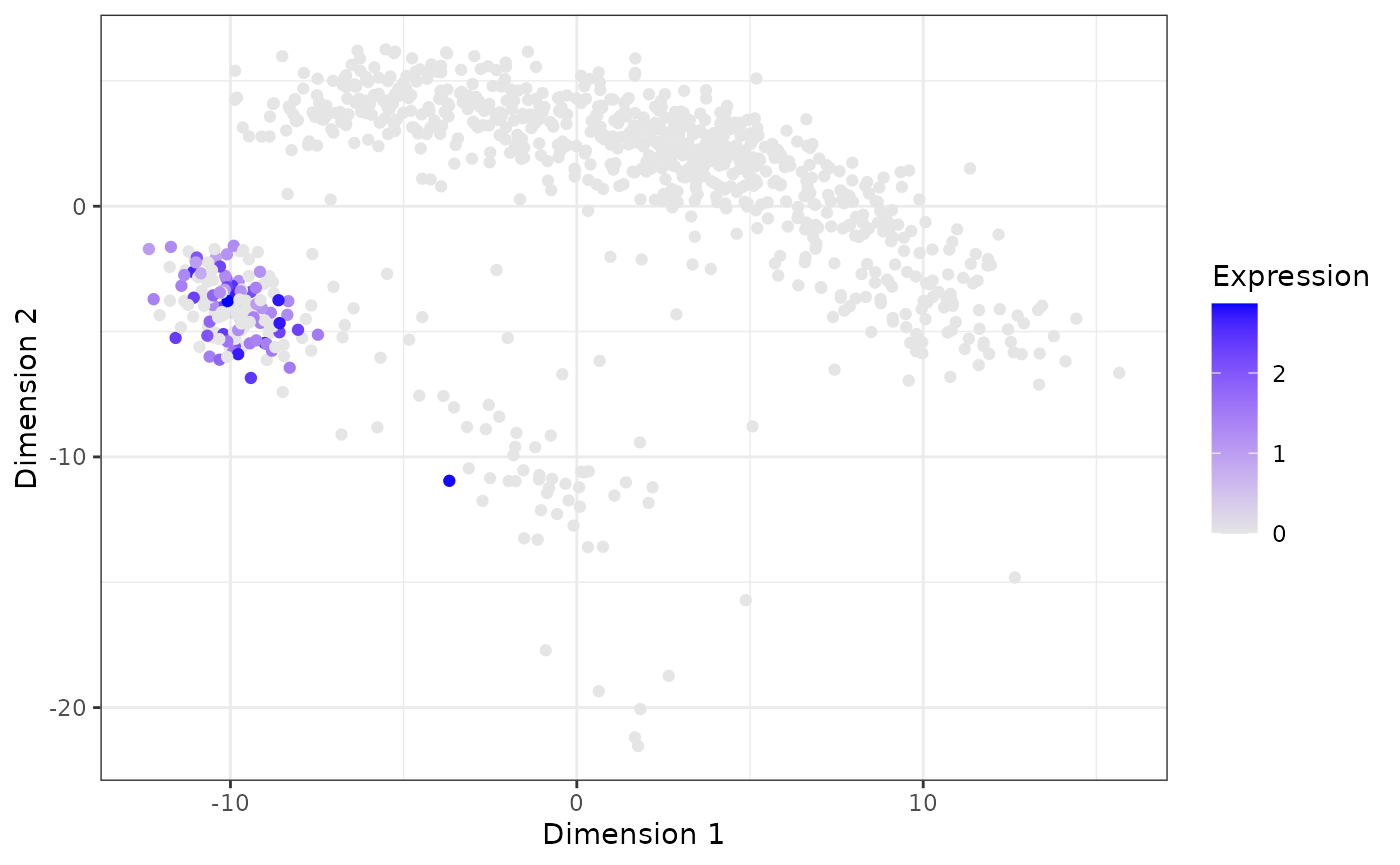
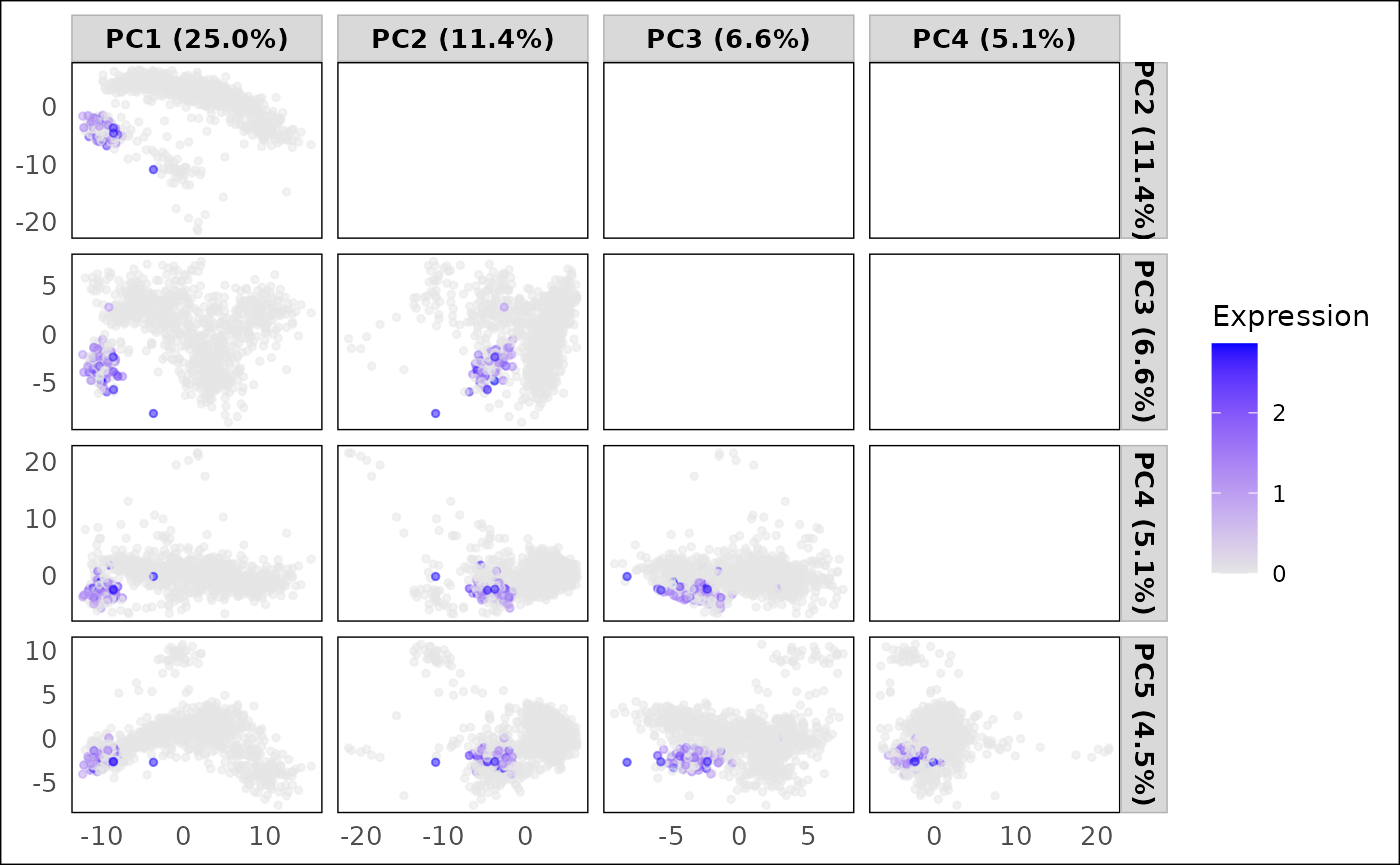
Deploying to gh-pages from @ AnthonyChristidis/scDiagnostics@14ea044367914f78cccae704bd25e8a9b420c00c 🚀

diff --git a/reference/plotGeneExpressionDimred.html b/reference/plotGeneExpressionDimred.html
@@ -56,7 +56,7 @@
     </div>
 
     <div id="ref-usage">
-    <div class="sourceCode"><pre class="sourceCode r"><code><span><span class="fu">plotGeneExpressionDimred</span><span class="op">(</span><span class="va">se_object</span>, <span class="va">method</span>, n_components <span class="op">=</span> <span class="fu"><a href="https://rdrr.io/r/base/c.html" class="external-link">c</a></span><span class="op">(</span><span class="fl">1</span>, <span class="fl">2</span><span class="op">)</span>, <span class="va">feature</span><span class="op">)</span></span></code></pre></div>
+    <div class="sourceCode"><pre class="sourceCode r"><code><span><span class="fu">plotGeneExpressionDimred</span><span class="op">(</span><span class="va">se_object</span>, <span class="va">method</span>, pc_subset <span class="op">=</span> <span class="fu"><a href="https://rdrr.io/r/base/c.html" class="external-link">c</a></span><span class="op">(</span><span class="fl">1</span><span class="op">:</span><span class="fl">5</span><span class="op">)</span>, <span class="va">feature</span><span class="op">)</span></span></code></pre></div>
     </div>
 
     <div id="arguments">
@@ -67,11 +67,12 @@ It can be either a reference or query dataset.</p></dd>
 
 
 <dt>method</dt>
-<dd><p>The reduction method to use for visualization. It should be one of the supported methods: "tSNE", "UMAP", or "PCA".</p></dd>
+<dd><p>The reduction method to use for visualization. It should be one of the supported methods: "TSNE", "UMAP", or "PCA".</p></dd>
 
 
-<dt>n_components</dt>
-<dd><p>A numeric vector of length 2 indicating the first two dimensions to be used for plotting.</p></dd>
+<dt>pc_subset</dt>
+<dd><p>An optional vector specifying the principal components (PCs) to include in the plot if method = "PCA". 
+Default is c(1:5).</p></dd>
 
 
 <dt>feature</dt>
@@ -109,10 +110,9 @@ It can be either a reference or query dataset.</p></dd>
 <span class="r-in"><span><span class="co"># Plot gene expression on PCA plot</span></span></span>
 <span class="r-in"><span><span class="fu">plotGeneExpressionDimred</span><span class="op">(</span>se_object <span class="op">=</span> <span class="va">query_data</span>, </span></span>
 <span class="r-in"><span>                         method <span class="op">=</span> <span class="st">"PCA"</span>, </span></span>
-<span class="r-in"><span>                         n_components <span class="op">=</span> <span class="fu"><a href="https://rdrr.io/r/base/c.html" class="external-link">c</a></span><span class="op">(</span><span class="fl">1</span>, <span class="fl">2</span><span class="op">)</span>, </span></span>
+<span class="r-in"><span>                         pc_subset <span class="op">=</span> <span class="fu"><a href="https://rdrr.io/r/base/c.html" class="external-link">c</a></span><span class="op">(</span><span class="fl">1</span><span class="op">:</span><span class="fl">5</span><span class="op">)</span>, </span></span>
 <span class="r-in"><span>                         feature <span class="op">=</span> <span class="st">"VPREB3"</span><span class="op">)</span></span></span>
 <span class="r-plt img"><img src="plotGeneExpressionDimred-1.png" alt="" width="700" height="433"></span>
-<span class="r-in"><span></span></span>
 <span class="r-in"><span></span></span>
 </code></pre></div>
     </div>

diff --git a/articles/scDiagnostics.html b/articles/scDiagnostics.html
@@ -428,7 +428,7 @@ color).</p>
 <code class="sourceCode R"><span><span class="co"># Generate dimension reduction plot color code by gene expression</span></span>
 <span><span class="fu"><a href="../reference/plotGeneExpressionDimred.html">plotGeneExpressionDimred</a></span><span class="op">(</span>se_object <span class="op">=</span> <span class="va">query_data</span>, </span>
 <span>                         method <span class="op">=</span> <span class="st">"PCA"</span>, </span>
-<span>                         n_components <span class="op">=</span> <span class="fu"><a href="https://rdrr.io/r/base/c.html" class="external-link">c</a></span><span class="op">(</span><span class="fl">1</span>, <span class="fl">2</span><span class="op">)</span>, </span>
+<span>                         pc_subset <span class="op">=</span> <span class="fu"><a href="https://rdrr.io/r/base/c.html" class="external-link">c</a></span><span class="op">(</span><span class="fl">1</span><span class="op">:</span><span class="fl">5</span><span class="op">)</span>, </span>
 <span>                         feature <span class="op">=</span> <span class="st">"VPREB3"</span><span class="op">)</span></span></code></pre></div>
 <p><img src="scDiagnostics_files/figure-html/Gene-Expression-Scatter-1.png" width="700"></p>
 <p>The dimensional reduction plot allows us to observe how the gene
